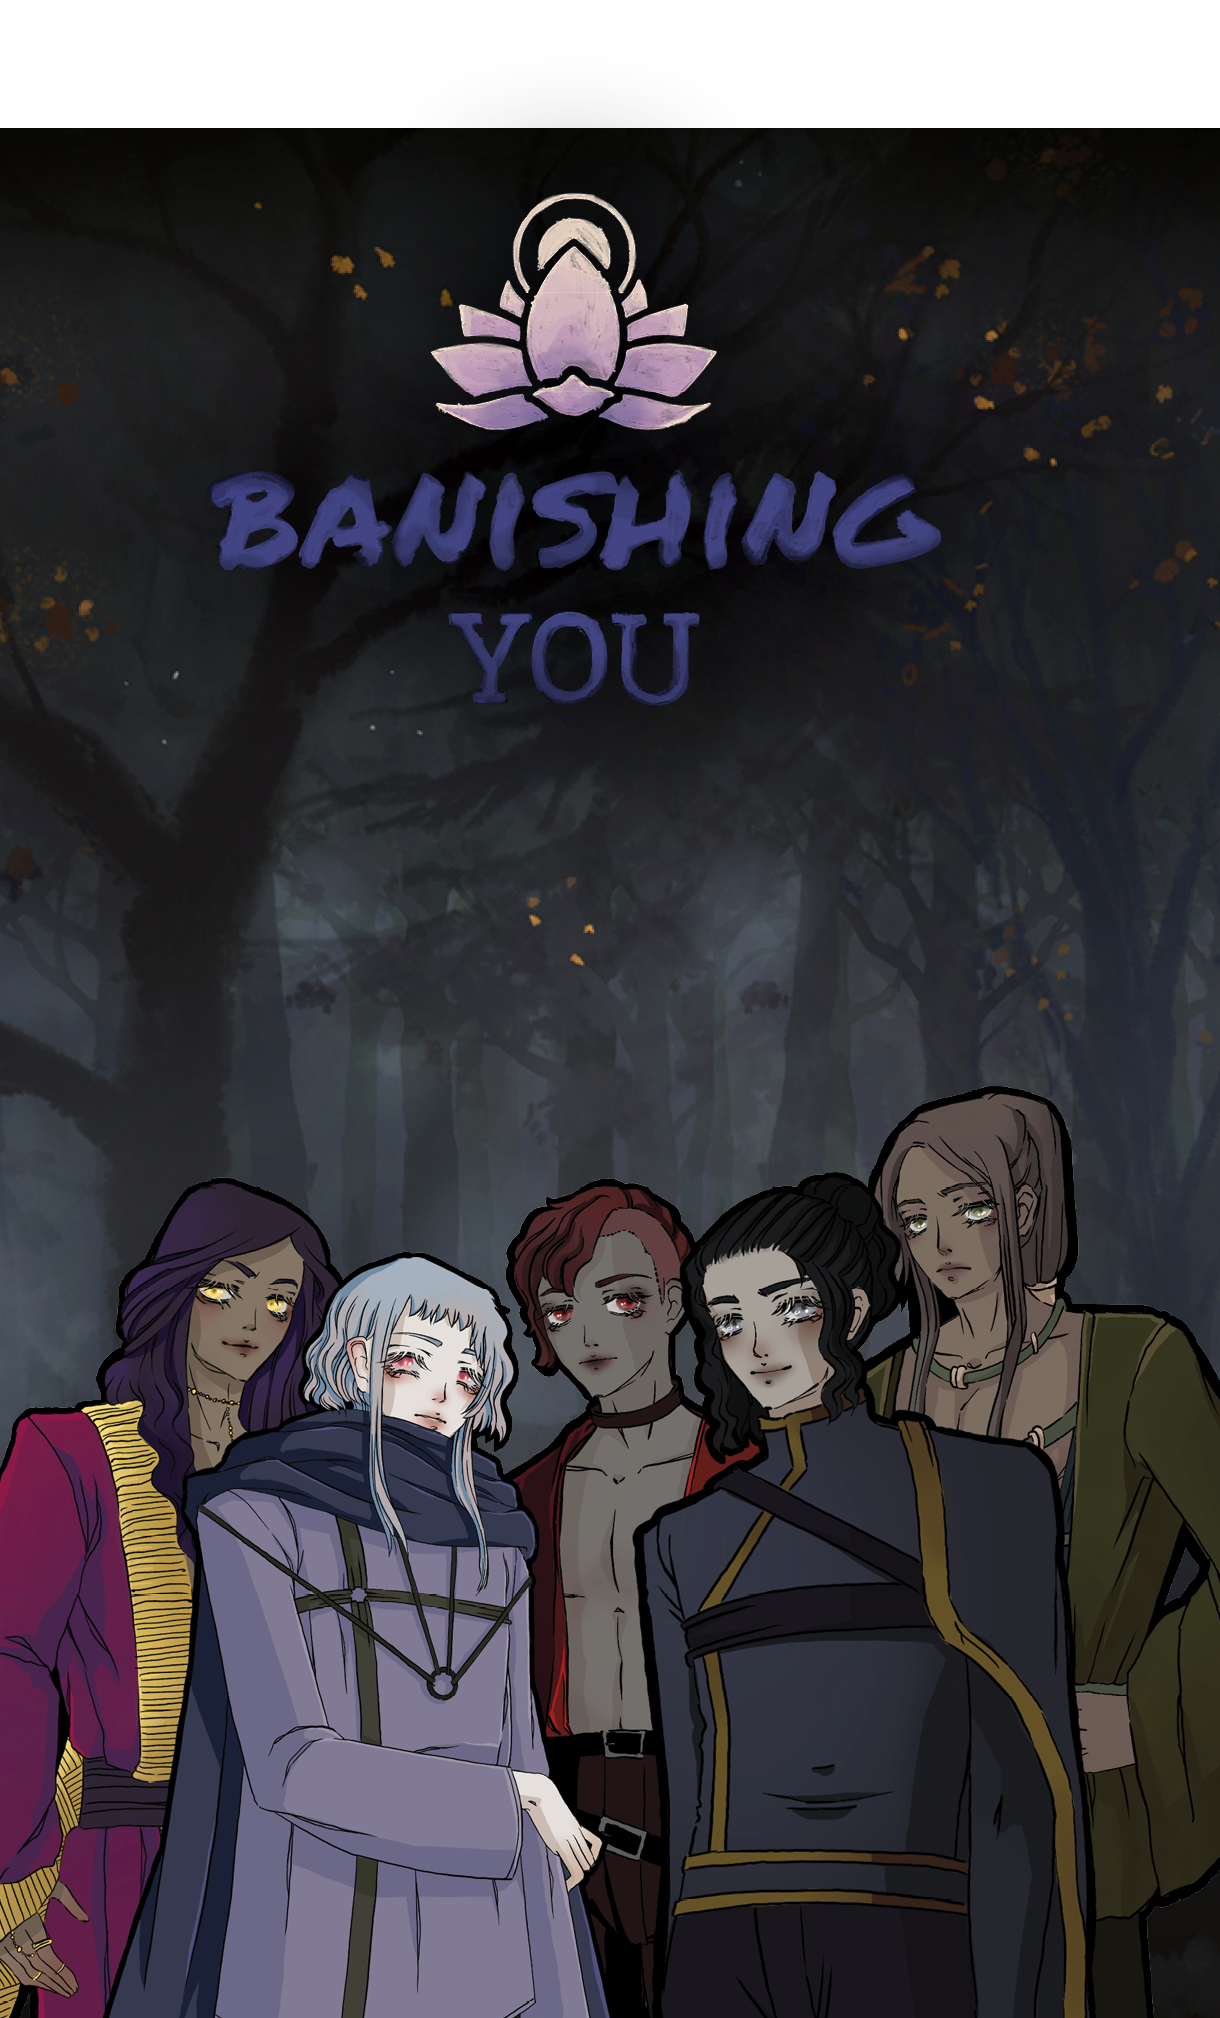
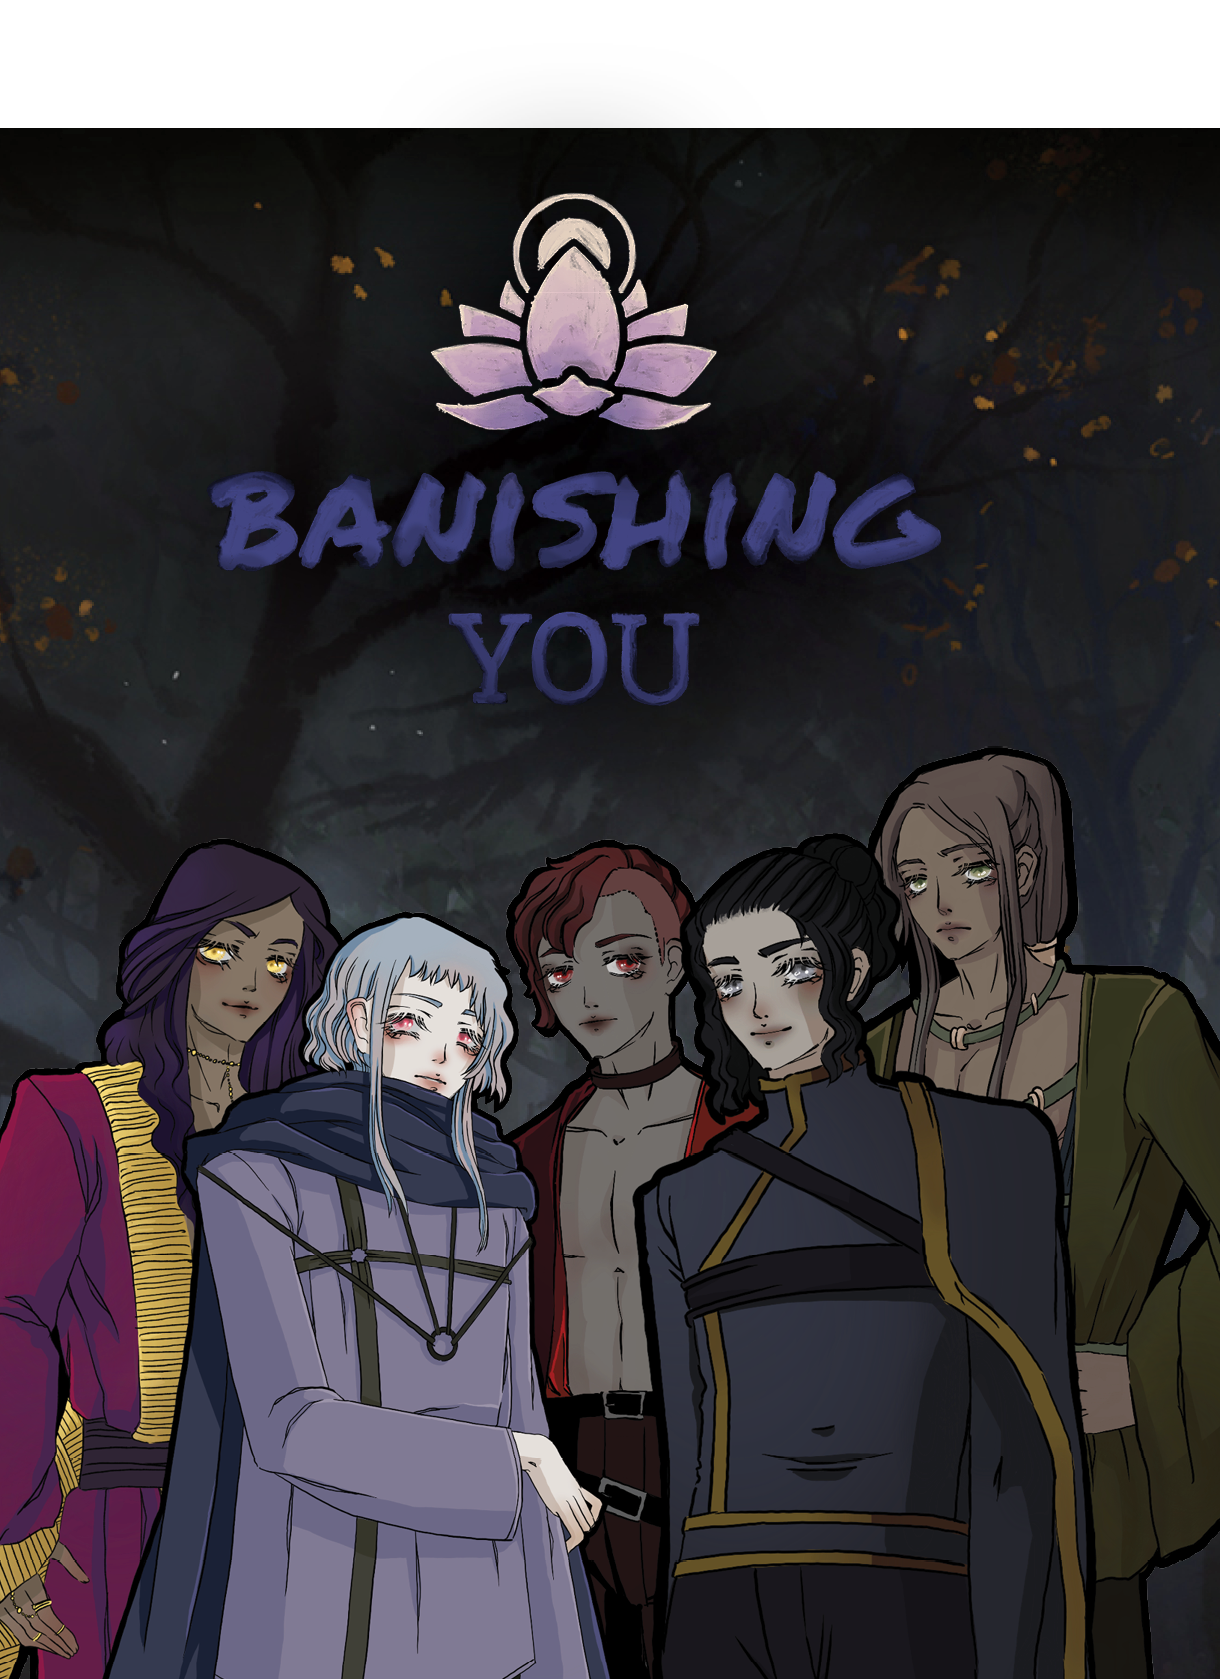
OR done

diff --git a/games_banishingYou.html b/games_banishingYou.html
@@ -2,6 +2,7 @@
 <html lang="en">
 <head>
     <meta charset="UTF-8">
+    <meta name="description" content="Lapys is a solo creative studio crafting emotionally resonant games, design, and illustration with a handmade edge.">
     <meta name="viewport" content="width=device-width, initial-scale=1.0">
     <link rel="icon" type="image/x-icon" href="./assets/ui-images/LapysGames_ImageLogo_small.ico">
     <link rel="stylesheet" type="text/css" href="main.css">
@@ -10,11 +11,11 @@
     <body>
         <div class="headerbox">
             <div class="headerboxinner1">
-                <img src="assets/ui-images/LapysGames_Logo_Long_All_Animated_Website.gif" alt="Logo" style="height: 70px; padding: 10px;"> 
+                <img src="assets/ui-images/LapysGames_Logo_Long_All_Animated_Website.gif" alt="Logo" style="padding: 10px;"> 
             </div>
             <div class="headerboxinner2">
                 <a href="./index.html">ABOUT</a>
-                <a href="./underconstruction.html">GAMES</a>
+                <a href="./games_banishingYou.html">GAMES</a>
                 <a href="./underconstruction.html">DESIGN</a>
                 <a href="./underconstruction.html">ILLUSTRATION</a>
                 <a href="./underconstruction.html">PHOTOGRAPHY</a>
@@ -23,14 +24,11 @@
         </div>
         <div class="headerbox_submenu">
             <a href="./games_banishingYou.html">BANISHING YOU</a>
-            <a href="./underconstruction.html">ORPHEUS' REVENGE</a>
+            <a href="./games_orpheusRevenge.html">ORPHEUS' REVENGE</a>
             <a href="./underconstruction.html">TENFOLD TALES</a>
             <a href="./underconstruction.html">OUT OF WATER</a>
         </div>
         <div class="box">
-            <div class="boxinner2">
-                <img src="assets/images_games/banishingYou_titleCard.png" alt="Portrait">
-            </div>
             <div class="boxinner1">
                 <h1>BANISHING YOU</h1>
                 <h2>when your dreams manifest, don’t trust them!</h2>
@@ -45,15 +43,15 @@
                     <br>
                     <iframe src="https://store.steampowered.com/widget/2926910/" frameborder="0" width="100%" height="190"></iframe>
                     <br>
-                    <a href="https://www.dropbox.com/scl/fo/dcc77zmmj54nyazz95x17/AAlBniMIBrCbNB2e661IEWA?rlkey=8qibwdaqa8k67vyto4q3zdxgl&st=zo3lljva&dl=0" target="_blank">PRESS KIT</a>
+                    <a href="https://www.dropbox.com/scl/fo/dcc77zmmj54nyazz95x17/AAlBniMIBrCbNB2e661IEWA?rlkey=8qibwdaqa8k67vyto4q3zdxgl&st=zo3lljva&dl=0" target="_blank">>> PRESS KIT</a>
                 </p>
                 <br>
             </div>
+            <div class="boxinner2">
+                <img src="assets/images_games/banishingYou_titleCard.png" alt="Game Art">
+            </div>
         </div>
         <div class="box">
-            <div class="boxinner2">
-                <iframe src="https://www.youtube.com/embed/IH2odr8Cch8" frameborder="0" allowfullscreen style="display: block; margin: auto;"></iframe>
-            </div>
             <div class="boxinner1">
                 <div class="innerflex">
                     <div class="boxinner1inner">
@@ -79,6 +77,36 @@
                         <b3>Written</b3> over 80,000 lines of dialogue, prose and choices
                     </div>            
                 </div>
+            </div>
+            <div class="boxinner2">
+                <iframe src="https://www.youtube.com/embed/IH2odr8Cch8" frameborder="0" allowfullscreen style="display: block; margin: auto;"></iframe>
+            </div>
+        </div>
+        <div class="box">
+            <div class="boxinner1">
+                <h3>Review Quotes</h3>
+                <div class="innerflex">
+                    <div class="boxinner1inner">
+                        “Beautiful, <b2>Mesmerizing Art</b2> and Gorgeous Characters [...] I’m in tears, what a beautiful and brief journey in one playthrough”
+                        <br>
+                        <b4>via Steam, 2024 - AUG - 18th</b4>
+                        <br>
+                        <br>
+                        “This was certainly an interesting read. In a <b2>uniquely strange</b2> way.”
+                        <br>
+                        <b4>via Steam, 2024 - AUG - 17th</b4>
+                        <br>
+                    </div>            
+                    <div class="boxinner1inner">
+                        “Wow, what a gem of a visual novel! [...] what I got instead is a surprisingly <b2>deep and unpredictable story set in a truly enchanting world</b2> filled with equally enchanting inhabitants.”
+                        <br>
+                        <b4>via Steam, 2024 - NOV - 08th</b4>
+                        <br>
+                    </div>            
+                </div>
+            </div>
+            <div class="boxinner2">
+                <img src="assets/images_games/banishingYou_titleCard2.png" alt="Game Art">
             </div>
         </div>
     </body>

diff --git a/games_orpheusRevenge.html b/games_orpheusRevenge.html
@@ -1,0 +1,84 @@
+<!DOCTYPE html>
+<html lang="en">
+<head>
+    <meta charset="UTF-8">
+    <meta name="description" content="Lapys is a solo creative studio crafting emotionally resonant games, design, and illustration with a handmade edge.">
+    <meta name="viewport" content="width=device-width, initial-scale=1.0">
+    <link rel="icon" type="image/x-icon" href="./assets/ui-images/LapysGames_ImageLogo_small.ico">
+    <link rel="stylesheet" type="text/css" href="main.css">
+    <title>Larissa Pychlau | Lapys Studio</title>
+</head>
+    <body>
+        <div class="headerbox">
+            <div class="headerboxinner1">
+                <img src="assets/ui-images/LapysGames_Logo_Long_All_Animated_Website.gif" alt="Logo" style="padding: 10px;"> 
+            </div>
+            <div class="headerboxinner2">
+                <a href="./index.html">ABOUT</a>
+                <a href="./games_banishingYou.html">GAMES</a>
+                <a href="./underconstruction.html">DESIGN</a>
+                <a href="./underconstruction.html">ILLUSTRATION</a>
+                <a href="./underconstruction.html">PHOTOGRAPHY</a>
+                <a href="./underconstruction.html">CONTACT</a>
+            </div>
+        </div>
+        <div class="headerbox_submenu">
+            <a href="./games_banishingYou.html">BANISHING YOU</a>
+            <a href="./games_orpheusRevenge.html">ORPHEUS' REVENGE</a>
+            <a href="./underconstruction.html">TENFOLD TALES</a>
+            <a href="./underconstruction.html">OUT OF WATER</a>
+        </div>
+        <div class="box">
+            <div class="boxinner1">
+                <h1>ORPHEUS' REVENGE</h1>
+                <h2>he came back for love. he stayed for vengeance.</h2>
+                <hr>
+                <p>
+                    <h3>death isn’t the end — and you’re armed with grief, wrath, and hopefully good aim.</h3>
+                    In this fast-paced, 80s-infused pixel shooter, you descend once more into the underworld to challenge its lords, beasts, and demons. Fight your way through vibrant hellscapes, accompanied by retro synths, biting dialogue, and enemies that hit harder than your grief.
+                    <br>
+                    <br>                    
+                    Click to shoot. Hope to survive.
+                    <br>
+                    <br>
+                    <iframe src="https://store.steampowered.com/widget/3344190/" frameborder="0" width="100%" height="190"></iframe>
+                    <br>
+                    <a href="https://www.dropbox.com/scl/fo/7sxe4ispzxoeacem4iyaj/AGkxBgvM39XVEp5KfBTx1Og?rlkey=sftz86tzx94hjol3fuo7xf9xx&st=2cjv0unv&dl=0" target="_blank">>> PRESS KIT</a>
+                </p>
+                <br>
+            </div>
+            <div class="boxinner2">
+                <img src="assets/images_games/orpheusRevenge_titleCard.png" alt="Game Art">
+            </div>
+        </div>
+        <div class="box">
+            <div class="boxinner1">
+                <div class="innerflex">
+                    <div class="boxinner1inner">
+                        <h3>Features</h3>
+                        <b3>Pixel Art & Neon:</b3> An 80s-style arcade underworld. Expect vibrant backdrops, cursed palettes, and synthwave beats.
+                        <br>
+                        <b3>Click-to-Kill Mayhem:</b3> No cooldowns, no reloads — just click your way through spirits and spiteful bosses.
+                        <br>
+                        <b3>Trash-Talking Bosses:</b3> Why get roasted online when pixelated deities can insult your aim and your life choices?
+                        <br>
+                        <b3>High Score:</b3> No saves, just skill. Track your best runs and try not to rage quit.
+                    </div>            
+                    <div class="boxinner1inner">
+                        <h3>My work for Orpheus’ Revenge:</h3>
+                        <b3>Developer · Artist · Writer</b3>
+                        <br>
+                        <b3>Developed</b3> using Pygame and Python                   
+                        <br>
+                        <b3>Art</b3> including everything from character design, illustration, UI elements to minor assets
+                        <br>
+                        <b3>Written</b3> sassy boss lines, system texts, and every last insult
+                    </div>            
+                </div>
+            </div>
+            <div class="boxinner2">
+                <iframe src="https://www.youtube.com/embed/2HY5Vuz8J_U" frameborder="0" allowfullscreen style="display: block; margin: auto;"></iframe>
+            </div>
+        </div>
+    </body>
+</html>

diff --git a/main.css b/main.css
@@ -60,16 +60,20 @@ h3 {
 
 /* ------------ MENU BOX LAYOUT ------------ */
 
+
 .headerbox {
-  width: 62%;
-  margin: auto;
-  padding-top: 20px;
-  padding-bottom: 10px;
   position: sticky;
   top: 0%;
   z-index: 100;
-  background-color: #fff5d2;
+  justify-content: center;
   display: flex;
+  flex-wrap: wrap;
+  background-color: #fff5d2;
+  align-items: center;
+  width: 61%;
+  margin: auto;
+  line-height: 0.2;             /* Reduce line height */
+
 }
 
 .headerbox a {
@@ -85,17 +89,26 @@ h3 {
 }
 
 .headerboxinner1 {
-  width: 30%;
-  padding-left: 20px;
+  flex: 0 0 auto; /* don’t shrink the logo, keep it its natural size */
   display: flex;
   align-items: center;
+  padding-right: 20px;
+}
+
+.headerboxinner1 img {
+  height: 80px;
+  width: auto;
+  margin-left: 50px;
 }
 
 .headerboxinner2 {
-  width: 70%;
+  flex: 1 1 0; /* take remaining space, allow wrapping */
   display: flex;
+  flex-wrap: wrap;
   align-items: center;
+  justify-content: flex-end;
   gap: 10px;
+  margin-right: 30px;
 }
 
 .headerbox_socials {
@@ -123,6 +136,10 @@ h3 {
   height: 100%;
   display: flex;
   align-items: center;
+}
+
+.headerbox_socials img {
+  padding: 5px;
 }
 
 .headerbox_submenu {
@@ -156,9 +173,6 @@ h3 {
   color: #001e46;
 }
 
-.headerbox_socials img {
-  padding: 5px;
-}
 /* ------------ MAIN BOX LAYOUT ------------ */
 
 .box {
@@ -166,6 +180,10 @@ h3 {
   width: 60%;
   margin: auto;
   background-color: #f9f9f9;
+}
+
+.box a:hover {
+  color: #001e46;
 }
 
 .boxinner1 {
@@ -209,6 +227,12 @@ h3 {
   font-family: 'Copy bold', sans-serif;
 }
 
+.boxinner1 b4 {
+  color: #ff828c;
+  font-family: 'Copy bold', sans-serif;
+  font-size: smaller;
+}
+
 
 .innerflex {
   display: flex;
@@ -242,7 +266,7 @@ iframe {
 /* RESPONSIVENESS */
 /***************************************************************************************************/
 
-@media only screen and (max-width: 900px) {
+@media only screen and (max-width: 1000px) {
   .headerbox,
   .box, .headerbox_socials {
     width: 100%;
@@ -290,6 +314,13 @@ iframe {
     align-items: center;
     justify-content: center;
     gap: 10px;
+    z-index: 100;
+  }
+
+  .headerbox_submenu a{
+    line-height: 0.8;
+    font-size: small;
+    font-family: 'Copy bold', sans-serif;
   }
 
   .headerbox a {

diff --git a/index.html b/index.html
@@ -2,6 +2,7 @@
 <html lang="en">
 <head>
     <meta charset="UTF-8">
+    <meta name="description" content="Lapys is a solo creative studio crafting emotionally resonant games, design, and illustration with a handmade edge.">
     <meta name="viewport" content="width=device-width, initial-scale=1.0">
     <link rel="icon" type="image/x-icon" href="./assets/ui-images/LapysGames_ImageLogo_small.ico">
     <link rel="stylesheet" type="text/css" href="main.css">
@@ -10,7 +11,7 @@
     <body>
         <div class="headerbox">
             <div class="headerboxinner1">
-                <img src="assets/ui-images/LapysGames_Logo_Long_All_Animated_Website.gif" alt="Logo" style="height: 70px; padding: 10px;"> 
+                <img src="assets/ui-images/LapysGames_Logo_Long_All_Animated_Website.gif" alt="Logo" style="padding: 10px;"> 
             </div>
             <div class="headerboxinner2">
                 <a href="./index.html">ABOUT</a>
